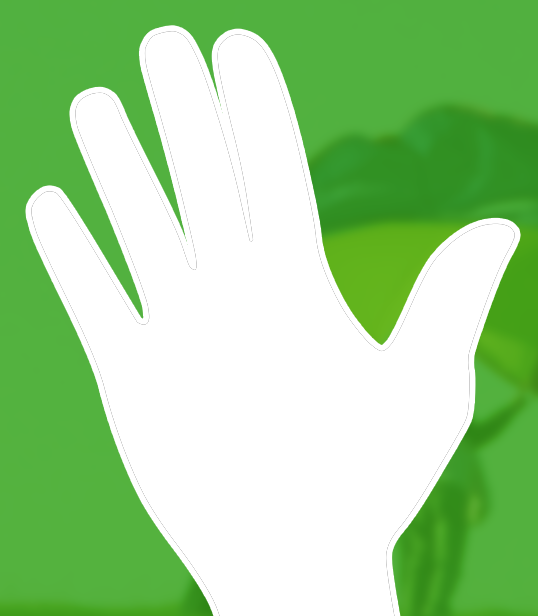
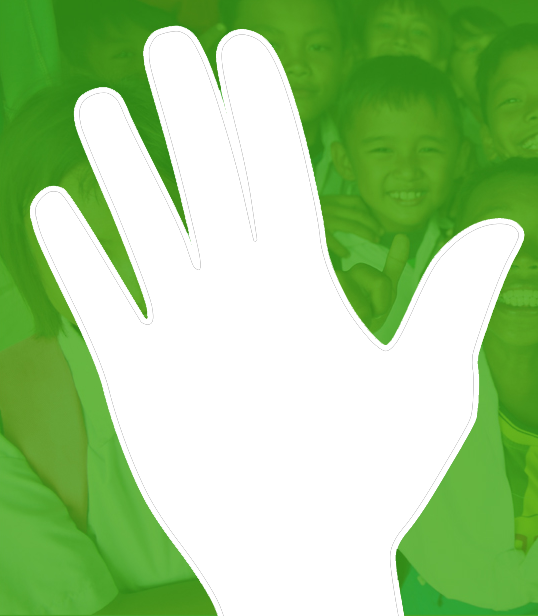
change bg modal

diff --git a/wp-content/themes/metaspace/assets/css/style.css b/wp-content/themes/metaspace/assets/css/style.css
@@ -645,7 +645,7 @@ have a fixed width and height (but it's not required).
   }
 
   .modal-butuh{
-    background: url(../img/bg-modal.jpg);
+    background: url(../img/popup.jpg);
     width: 995px;
     height: 317px;
     -webkit-border-radius: 0;
@@ -782,7 +782,7 @@ have a fixed width and height (but it's not required).
 }
 #modal-wallofpic .modal-content,
 #modal-thanks .modal-content, #modal-vote .modal-content{
-  background: url(../img/bg-wallofpic.jpg);
+  background: url(../img/thanks.jpg);
   width: 1056px;
   height: 616px;
   text-align: left;
